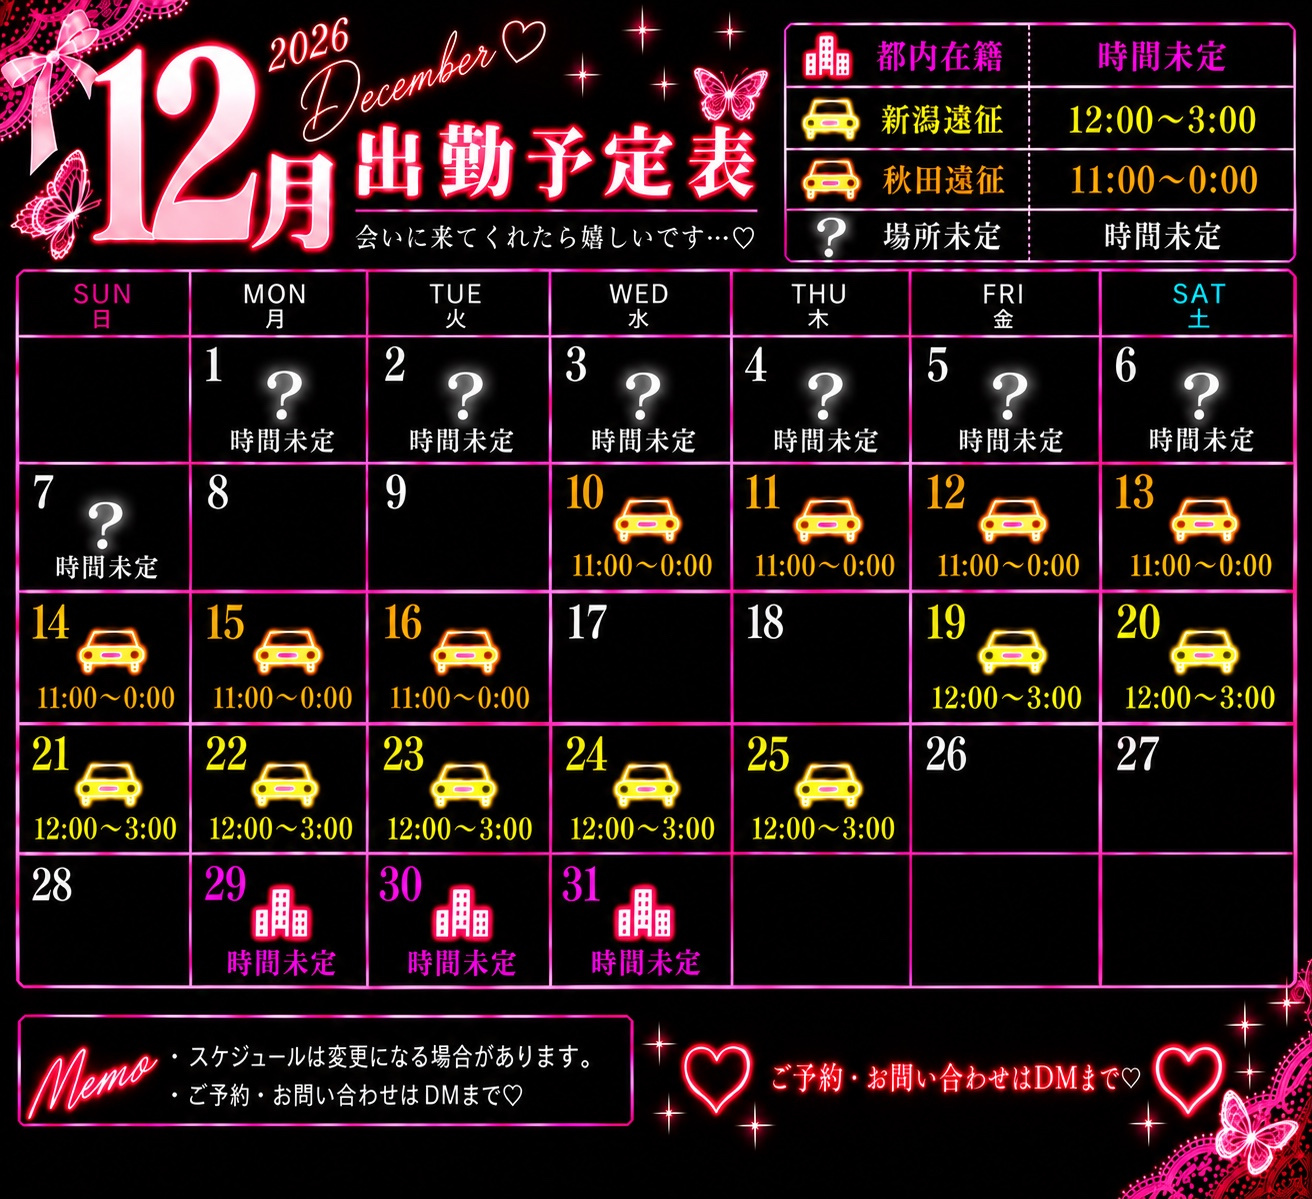
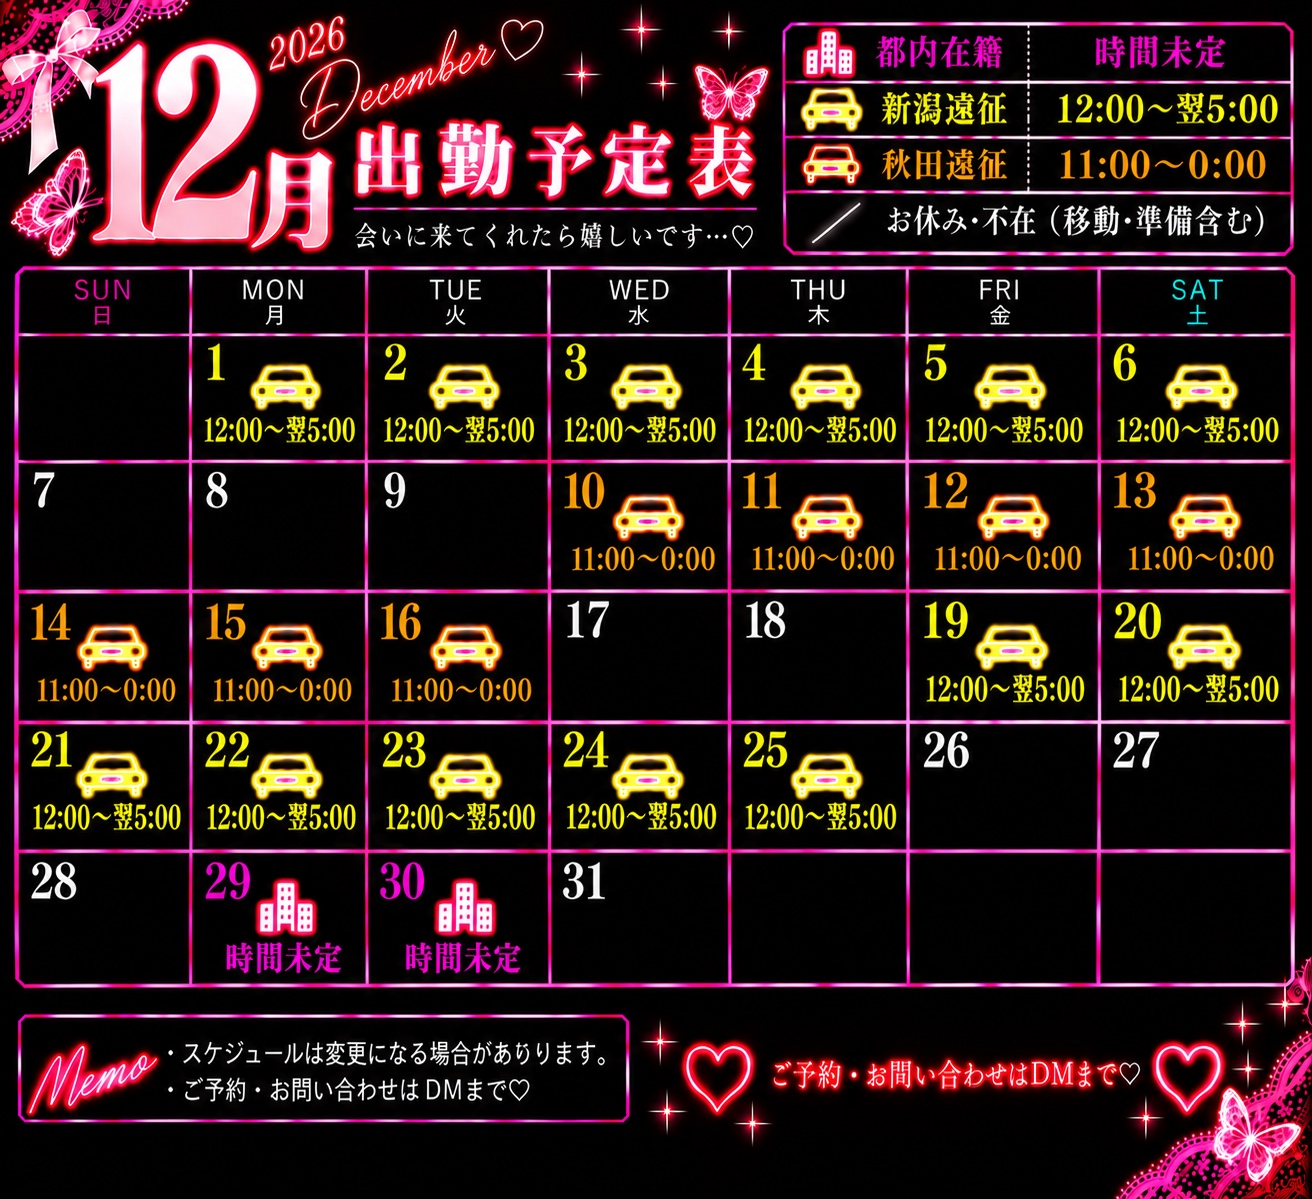
Add files via upload

Changed region(s): [[0.0, 0.0, 1.0, 1.0], [0.4688, 0.0, 0.5, 0.0309]]

diff --git a/index.html b/index.html
@@ -27,7 +27,15 @@ section,.hero{scroll-margin-top:85px}
 .sticky{display:grid!important;grid-template-columns:1fr 1.45fr;gap:7px;align-items:center;padding-left:12px;padding-right:12px}
 .sticky a{min-width:0;text-align:center;white-space:nowrap;font-size:clamp(11px,3.1vw,15px);padding:13px 5px}
 @media(min-width:650px){.sticky{max-width:650px;left:50%;transform:translateX(-50%);width:100%}}
-</style></head><body><nav aria-label="ページ内メニュー" class="top-menu"><a href="#top">TOP</a><a href="#gallery">Gallery</a><a href="#intro">Introduction</a><a href="#schedule">Schedule</a><a href="#reviews">Reviews</a><a href="#booking">Shops</a><a href="#contact">Contact</a></nav><div class="wrap"><header class="hero" id="top"><img alt="プロフィール写真" class="avatar" src="photo1.jpg"/><h1>ねこにゃん🦋</h1><div class="sub">🎀 150cm・Hカップ・むちむち 🎀</div><div class="tags"><span>Tattoo</span><span>派手髪</span><span>ドM</span><span>150cm</span><span class="height-matched">Hカップ</span><span>むちむち</span></div><div class="status">📍 東京 ｜ 新潟 🚗 ｜ 秋田 🚗</div><div class="social"><a href="https://x.com/nekonekonyann__" rel="noopener" target="_blank"><span aria-hidden="true" class="x-app-icon"><svg fill="white" height="18" viewbox="0 0 24 24" width="18"><path d="M18.9 2H22l-6.78 7.75L23.2 22h-6.25l-4.9-7.43L5.55 22H2.42l7.25-8.29L1.8 2h6.41l4.43 6.77L18.9 2Zm-1.1 18h1.73L7.26 3.9H5.4Z"></path></svg></span> X</a><a href="https://www.instagram.com/nekonekonyann___/" id="instagram" rel="noopener" target="_blank"><svg aria-hidden="true" height="21" viewbox="0 0 24 24" width="21"><defs><lineargradient id="igGrad" x1="0" x2="1" y1="1" y2="0"><stop offset="0" stop-color="#FEDA75"></stop><stop offset=".32" stop-color="#FA7E1E"></stop><stop offset=".65" stop-color="#D62976"></stop><stop offset="1" stop-color="#4F5BD5"></stop></lineargradient></defs><rect fill="url(#igGrad)" height="22" rx="6" width="22" x="1" y="1"></rect><rect fill="none" height="14" rx="4" stroke="white" stroke-width="1.7" width="14" x="5" y="5"></rect><circle cx="12" cy="12" fill="none" r="3.4" stroke="white" stroke-width="1.7"></circle><circle cx="17.3" cy="6.8" fill="white" r="1.1"></circle></svg> Instagram</a></div></header><section id="gallery"><h2>Gallery</h2><div class="gallery" id="photos"></div></section><section id="intro"><h2>Introduction</h2><div class="panel"><p>150cm・Hカップのむちむち体型💗</p><p>「明るくて話しやすい！」「初めてなのに緊張しなかった！」と言っていただくことが多く、楽しい時間を一緒に過ごすのが大好きです🥰</p><p>見た目はふわっとしていますが、実はかなりのドM…🥺💭💗<br/>そのギャップもぜひ楽しんでもらえたら嬉しいです🙌🏻</p><p>せっかく会いに来てくださるなら、「また会いたい」と思っていただける時間にしたいと思っています♪</p><p class="accent">たくさん笑って、たくさん癒されて、素敵な時間を一緒に過ごしましょう💗</p></div></section><section id="schedule"><h2>Schedule</h2><div class="panel"><div class="month-nav" id="months"></div><div id="schedule-body" style="margin-top:17px"></div></div></section><section id="reviews"><h2>Reviews</h2><div id="review-list"><article class="review" data-review-date="2026-10-19T19:03:41"><div class="review-meta">掲載日 2026/10/19 ・ はちムラ ・ ★5.0</div><h3>夢の中で…</h3><p>写真以上の魅力と濃厚な時間を高く評価。希望にも嫌な顔をせず丁寧に応えてくれたと、優しさや満足度について嬉しいお言葉をいただきました。</p><a class="review-source" href="https://www.cityheaven.net/niigata/A1501/A150101/n_hangout/reviews/rv-14685175/" rel="noopener noreferrer" target="_blank">シティヘブンで口コミ全文を見る ↗</a></article><article class="review" data-review-date="2026-10-13T14:17:05"><div class="review-meta">掲載日 2026/10/13 ・ namenameta</div><h3>大変良くしてもらい大満足です</h3><p>希望に丁寧に応じてくれ、満足できる時間を過ごせたという感想。</p><a class="review-source" href="https://www.cityheaven.net/niigata/A1501/A150101/n_hangout/reviews/rv-14600938/" rel="noopener noreferrer" target="_blank">シティヘブンで口コミ全文を見る ↗</a></article><article class="review" data-review-date="2026-09-20T09:55:03"><div class="review-meta">掲載日 2026/09/20 ・ shikou1324</div><h3>かわいい笑顔に癒される。</h3><p>会話も楽しく丁寧な対応で、笑顔に癒されたという口コミ。</p><a class="review-source" href="https://www.cityheaven.net/niigata/A1501/A150101/n_hangout/reviews/rv-14315581/" rel="noopener noreferrer" target="_blank">シティヘブンで口コミ全文を見る ↗</a></article></div><a class="review-more" href="reviews.html">もっと見る（全9件） →</a></section><section id="booking"><h2>在籍店・ご予約</h2><a class="shop" href="https://www.cityheaven.net/tokyo/A1305/A130505/hote-pin/girlid-64938309/" id="tokyo"><span class="pill">東京 在籍</span><span class="arrow">›</span><strong>ホテピン</strong><small>ホテル型のピンサロです 💗</small></a><a class="shop" href="https://www.cityheaven.net/niigata/A1501/A150101/n_hangout/girlid-67494714/" id="niigata"><span class="pill purple">新潟 在籍</span><span class="arrow">›</span><strong>はんぐあうと</strong><small>車で運ばれ屋さんやってます 🚙³₃</small></a><a class="shop" href="https://www.cityheaven.net/akita/A0503/A050301/mamacolle_a/girlid-68140468/" rel="noopener" target="_blank"><span class="pill mint">秋田 在籍</span><span class="arrow">›</span><strong>秋田 在籍</strong><small>車で運ばれ屋さんやってます🚗³₃</small></a><p class="notice">ご予約は各店舗のシティヘブンからお願いいたします。<br/>姫予約は承っておりません。</p></section><section id="contact"><h2>Contact</h2><div class="panel contact"><p>ご質問・お問い合わせはこちらから♡</p><p class="contact-note">ご予約・姫予約は受け付けておりません。</p><a class="action" href="https://x.com/nekonekonyann__" rel="noopener" target="_blank">XのDMで問い合わせる ↗</a><p class="contact-email">メールで直接問い合わせ： <a href="mailto:mnmn.gg.7676@gmail.com">mnmn.gg.7676@gmail.com</a></p><p>または、下のフォームからお問い合わせいただけます。</p><form accept-charset="UTF-8" action="https://formsubmit.co/mnmn.gg.7676@gmail.com" id="contact-form" method="POST"><input name="_template" type="hidden" value="table"/><input name="_captcha" type="hidden" value="true"/><input name="_subject" type="hidden" value="【ねこにゃんHP】お問い合わせ"/><input name="お名前" placeholder="お名前（ニックネーム可）" required=""/><input name="email" placeholder="返信先メールアドレス" required="" type="email"/><textarea name="お問い合わせ内容" placeholder="お問い合わせ内容" required="" rows="5"></textarea><button>問い合わせを送信</button></form><p class="contact-note">※ フォームは外部サービス（FormSubmit）を利用します。初回は受信先メールに届く確認メールで有効化が必要です。送信情報は外部サービスを経由します。</p></div></section><p class="notice">18歳未満の方は在籍店リンクを閲覧できません。<br/>🦋 nekonekonyann</p></div><nav aria-label="クイックメニュー" class="sticky"><a href="#schedule">出勤予定</a><a href="#booking">♡ ご予約はこちら</a></nav><div class="overlay" id="lightbox" onclick="this.classList.remove('show')"><button aria-label="閉じる">✕</button><img alt="拡大写真"/></div><div class="age" id="age"><div class="panel"><div style="font-size:48px">🦋</div><h3>ねこにゃん🦋</h3><p>このサイトには成人向けの店舗案内が含まれます。18歳以上ですか？</p><button onclick="sessionStorage.setItem('adult','yes');document.getElementById('age').classList.add('hidden')">はい、18歳以上です</button><button class="no" onclick="location.href='https://www.google.com/'">いいえ</button></div></div><script>
+
+/* X accounts: notices and everyday activity, usable on narrow screens. */
+.social{flex-wrap:wrap;gap:10px;margin-bottom:40px}
+.social a{padding:12px 16px;font-size:14px;max-width:100%;white-space:nowrap}
+.contact-x-links{display:flex;flex-direction:column;align-items:flex-start;gap:2px;margin:8px 0 14px}
+.contact .contact-x-links .action{margin:0 0 6px}
+.contact-alt-x{display:inline-flex;max-width:100%;padding:3px 5px;color:#bc4380;font-size:14px;font-weight:600;text-decoration:underline;text-underline-offset:3px}
+@media(max-width:400px){.social{gap:8px}.social a{padding:10px 12px;font-size:13px}}
+</style></head><body><nav aria-label="ページ内メニュー" class="top-menu"><a href="#top">TOP</a><a href="#gallery">Gallery</a><a href="#intro">Introduction</a><a href="#schedule">Schedule</a><a href="#reviews">Reviews</a><a href="#booking">Shops</a><a href="#contact">Contact</a></nav><div class="wrap"><header class="hero" id="top"><img alt="プロフィール写真" class="avatar" src="photo1.jpg"/><h1>ねこにゃん🦋</h1><div class="sub">🎀 150cm・Hカップ・むちむち 🎀</div><div class="tags"><span>Tattoo</span><span>派手髪</span><span>ドM</span><span>150cm</span><span class="height-matched">Hカップ</span><span>むちむち</span></div><div class="status">📍 東京 ｜ 新潟 🚗 ｜ 秋田 🚗</div><div class="social"><a id="x-business" aria-label="X 営業垢" href="https://x.com/nyan_b2x" rel="noopener noreferrer" target="_blank"><span aria-hidden="true" class="x-app-icon"><svg fill="white" height="18" viewbox="0 0 24 24" width="18"><path d="M18.9 2H22l-6.78 7.75L23.2 22h-6.25l-4.9-7.43L5.55 22H2.42l7.25-8.29L1.8 2h6.41l4.43 6.77L18.9 2Zm-1.1 18h1.73L7.26 3.9H5.4Z"></path></svg></span> X（営業垢）</a><a id="x-daily" aria-label="X 日常垢" href="https://x.com/nyan_b2x_sub" rel="noopener noreferrer" target="_blank"><span aria-hidden="true" class="x-app-icon"><svg fill="white" height="18" viewbox="0 0 24 24" width="18"><path d="M18.9 2H22l-6.78 7.75L23.2 22h-6.25l-4.9-7.43L5.55 22H2.42l7.25-8.29L1.8 2h6.41l4.43 6.77L18.9 2Zm-1.1 18h1.73L7.26 3.9H5.4Z"></path></svg></span> X（日常垢）</a><a href="https://www.instagram.com/nekonekonyann___/" id="instagram" rel="noopener" target="_blank"><svg aria-hidden="true" height="21" viewbox="0 0 24 24" width="21"><defs><lineargradient id="igGrad" x1="0" x2="1" y1="1" y2="0"><stop offset="0" stop-color="#FEDA75"></stop><stop offset=".32" stop-color="#FA7E1E"></stop><stop offset=".65" stop-color="#D62976"></stop><stop offset="1" stop-color="#4F5BD5"></stop></lineargradient></defs><rect fill="url(#igGrad)" height="22" rx="6" width="22" x="1" y="1"></rect><rect fill="none" height="14" rx="4" stroke="white" stroke-width="1.7" width="14" x="5" y="5"></rect><circle cx="12" cy="12" fill="none" r="3.4" stroke="white" stroke-width="1.7"></circle><circle cx="17.3" cy="6.8" fill="white" r="1.1"></circle></svg> Instagram</a></div></header><section id="gallery"><h2>Gallery</h2><div class="gallery" id="photos"></div></section><section id="intro"><h2>Introduction</h2><div class="panel"><p>150cm・Hカップのむちむち体型💗</p><p>「明るくて話しやすい！」「初めてなのに緊張しなかった！」と言っていただくことが多く、楽しい時間を一緒に過ごすのが大好きです🥰</p><p>見た目はふわっとしていますが、実はかなりのドM…🥺💭💗<br/>そのギャップもぜひ楽しんでもらえたら嬉しいです🙌🏻</p><p>せっかく会いに来てくださるなら、「また会いたい」と思っていただける時間にしたいと思っています♪</p><p class="accent">たくさん笑って、たくさん癒されて、素敵な時間を一緒に過ごしましょう💗</p></div></section><section id="schedule"><h2>Schedule</h2><div class="panel"><div class="month-nav" id="months"></div><div id="schedule-body" style="margin-top:17px"></div></div></section><section id="reviews"><h2>Reviews</h2><div id="review-list"><article class="review" data-review-date="2026-10-19T19:03:41"><div class="review-meta">掲載日 2026/10/19 ・ はちムラ ・ ★5.0</div><h3>夢の中で…</h3><p>写真以上の魅力と濃厚な時間を高く評価。希望にも嫌な顔をせず丁寧に応えてくれたと、優しさや満足度について嬉しいお言葉をいただきました。</p><a class="review-source" href="https://www.cityheaven.net/niigata/A1501/A150101/n_hangout/reviews/rv-14685175/" rel="noopener noreferrer" target="_blank">シティヘブンで口コミ全文を見る ↗</a></article><article class="review" data-review-date="2026-10-13T14:17:05"><div class="review-meta">掲載日 2026/10/13 ・ namenameta</div><h3>大変良くしてもらい大満足です</h3><p>希望に丁寧に応じてくれ、満足できる時間を過ごせたという感想。</p><a class="review-source" href="https://www.cityheaven.net/niigata/A1501/A150101/n_hangout/reviews/rv-14600938/" rel="noopener noreferrer" target="_blank">シティヘブンで口コミ全文を見る ↗</a></article><article class="review" data-review-date="2026-09-20T09:55:03"><div class="review-meta">掲載日 2026/09/20 ・ shikou1324</div><h3>かわいい笑顔に癒される。</h3><p>会話も楽しく丁寧な対応で、笑顔に癒されたという口コミ。</p><a class="review-source" href="https://www.cityheaven.net/niigata/A1501/A150101/n_hangout/reviews/rv-14315581/" rel="noopener noreferrer" target="_blank">シティヘブンで口コミ全文を見る ↗</a></article></div><a class="review-more" href="reviews.html">もっと見る（全9件） →</a></section><section id="booking"><h2>在籍店・ご予約</h2><a class="shop" href="https://www.cityheaven.net/tokyo/A1305/A130505/hote-pin/girlid-64938309/" id="tokyo"><span class="pill">東京 在籍</span><span class="arrow">›</span><strong>ホテピン</strong><small>ホテル型のピンサロです 💗</small></a><a class="shop" href="https://www.cityheaven.net/niigata/A1501/A150101/n_hangout/girlid-67494714/" id="niigata"><span class="pill purple">新潟 在籍</span><span class="arrow">›</span><strong>はんぐあうと</strong><small>車で運ばれ屋さんやってます 🚙³₃</small></a><a class="shop" href="https://www.cityheaven.net/akita/A0503/A050301/mamacolle_a/girlid-68140468/" rel="noopener" target="_blank"><span class="pill mint">秋田 在籍</span><span class="arrow">›</span><strong>秋田 在籍</strong><small>車で運ばれ屋さんやってます🚗³₃</small></a><p class="notice">ご予約は各店舗のシティヘブンからお願いいたします。<br/>姫予約は承っておりません。</p></section><section id="contact"><h2>Contact</h2><div class="panel contact"><p>ご質問・お問い合わせはこちらから♡</p><p class="contact-note">ご予約・姫予約は受け付けておりません。</p><div class="contact-x-links"><a class="action" href="https://x.com/nyan_b2x" rel="noopener noreferrer" target="_blank">X（営業垢）のDMで問い合わせる ↗</a><a class="contact-alt-x" href="https://x.com/nyan_b2x_sub" rel="noopener noreferrer" target="_blank">X（日常垢）はこちら ↗</a></div><p class="contact-email">メールで直接問い合わせ： <a href="mailto:mnmn.gg.7676@gmail.com">mnmn.gg.7676@gmail.com</a></p><p>または、下のフォームからお問い合わせいただけます。</p><form accept-charset="UTF-8" action="https://formsubmit.co/mnmn.gg.7676@gmail.com" id="contact-form" method="POST"><input name="_template" type="hidden" value="table"/><input name="_captcha" type="hidden" value="true"/><input name="_subject" type="hidden" value="【ねこにゃんHP】お問い合わせ"/><input name="お名前" placeholder="お名前（ニックネーム可）" required=""/><input name="email" placeholder="返信先メールアドレス" required="" type="email"/><textarea name="お問い合わせ内容" placeholder="お問い合わせ内容" required="" rows="5"></textarea><button>問い合わせを送信</button></form><p class="contact-note">※ フォームは外部サービス（FormSubmit）を利用します。初回は受信先メールに届く確認メールで有効化が必要です。送信情報は外部サービスを経由します。</p></div></section><p class="notice">18歳未満の方は在籍店リンクを閲覧できません。<br/>🦋 nekonekonyann</p></div><nav aria-label="クイックメニュー" class="sticky"><a href="#schedule">出勤予定</a><a href="#booking">♡ ご予約はこちら</a></nav><div class="overlay" id="lightbox" onclick="this.classList.remove('show')"><button aria-label="閉じる">✕</button><img alt="拡大写真"/></div><div class="age" id="age"><div class="panel"><div style="font-size:48px">🦋</div><h3>ねこにゃん🦋</h3><p>このサイトには成人向けの店舗案内が含まれます。18歳以上ですか？</p><button onclick="sessionStorage.setItem('adult','yes');document.getElementById('age').classList.add('hidden')">はい、18歳以上です</button><button class="no" onclick="location.href='https://www.google.com/'">いいえ</button></div></div><script>
 (function(){
 
   const reviewList=document.getElementById('review-list');
@@ -48,11 +56,11 @@ section,.hero{scroll-margin-top:85px}
     btn.appendChild(im);btn.addEventListener('click',()=>{const box=document.getElementById('lightbox');box.querySelector('img').src=im.src;box.classList.add('show')});gallery.appendChild(btn);
   }
   const months=document.getElementById('months'),body=document.getElementById('schedule-body');
-  const items=[['2026年11月','calendar-2026-11.jpg'],['2026年12月','calendar-2026-12.jpg'],['2027年1月',null]];
+  const items=[['2026年11月','calendar-2026-11.jpg'],['2026年12月','calendar-2026-12.jpg'],['2027年1月','calendar-2027-01.jpg']];
   function showMonth(i){
     months.querySelectorAll('button').forEach((b,n)=>{b.classList.toggle('active',n===i);b.setAttribute('aria-pressed',String(n===i))});
     body.replaceChildren();
-    if(items[i][1]){const img=document.createElement('img');img.src=items[i][1];img.alt=items[i][0]+'の出勤予定';img.className='schedule-img';img.loading='lazy';img.tabIndex=0;img.title='タップで拡大';const enlarge=()=>{const box=document.getElementById('lightbox');box.querySelector('img').src=img.src;box.classList.add('show')};img.addEventListener('click',enlarge);img.addEventListener('keydown',e=>{if(e.key==='Enter')enlarge()});body.appendChild(img)}
+    if(items[i][1]){const img=document.createElement('img');img.src=items[i][1]+'?v=20261116';img.alt=items[i][0]+'の出勤予定';img.className='schedule-img';img.loading='lazy';img.tabIndex=0;img.title='タップで拡大';const enlarge=()=>{const box=document.getElementById('lightbox');box.querySelector('img').src=img.src;box.classList.add('show')};img.addEventListener('click',enlarge);img.addEventListener('keydown',e=>{if(e.key==='Enter')enlarge()});body.appendChild(img)}
     else {const msg=document.createElement('p');msg.className='muted';msg.textContent='出勤予定は準備中です♡';body.appendChild(msg)}
   }
   items.forEach(([name],i)=>{const b=document.createElement('button');b.type='button';b.textContent=name;b.addEventListener('click',()=>showMonth(i));months.appendChild(b)});showMonth(0);
